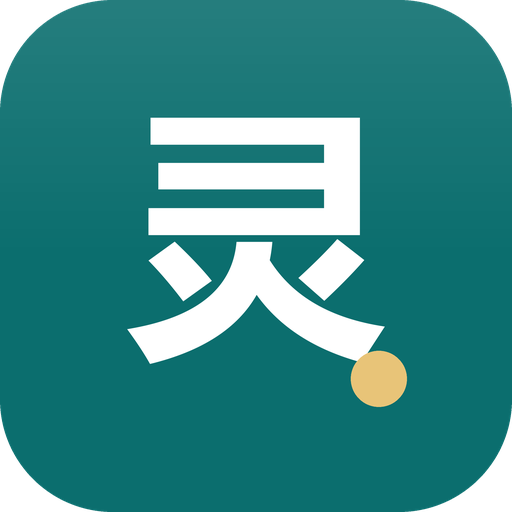
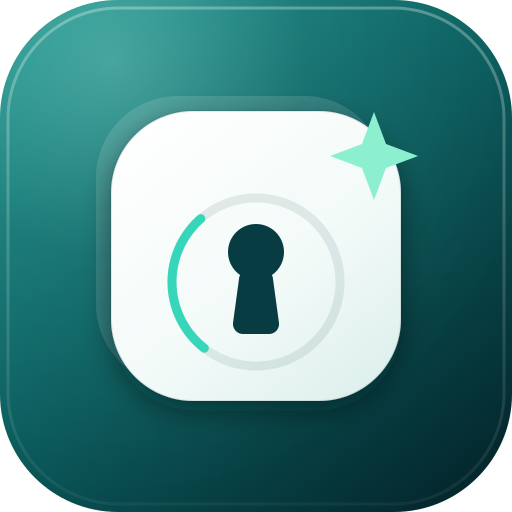
feat(brand): 重做品牌图标（保险柜门 + 锁孔 + 薄荷刻度弧 + 星芒）
- scripts/make-icons.mjs：一个 SVG 源生成 web 16/48/128/192/512、icon-512、apple-icon、favicon.ico（16/32/48）、
  桌面 build/icon.png、扩展 logo-16/48/128 与 logo-full，外加 docs/screenshots/brand-icon.png 预览
- ≤32px 自动切简化版（放大面板、加粗锁孔、去环与星芒），保证 16px 可辨认
- 预览：docs/screenshots/brand-icon.png

diff --git a/docs/PHASE_2_REPORT.md b/docs/PHASE_2_REPORT.md
@@ -8465,3 +8465,21 @@ PASS  图片 LLM OCR 读出截图文字     <- 38 字符
 - 主进程：启动 20 秒后首查 + 每 6 小时；发现新版弹一次提示；下载完成弹「立即重启 / 稍后」；托盘菜单加「检查更新…」
 - 支持 `IV_UPDATE_URL` 覆盖更新源（GitHub 在国内不稳时，指向自己的静态空间即可，只需 exe + blockmap + latest.yml 三个文件）
 - 代码签名**按决定跳过**：不买证书，首次运行仍会有 SmartScreen 提示，但更新链路不受影响
+
+---
+
+## 179. 品牌图标重做
+
+**上一版的问题**：深青圆角方块 + 白色「灵」字，等于「文字贴图」，16px 下糊成一团，也不像产品图标。
+
+**新图标**（`scripts/make-icons.mjs` 一个 SVG 源生成全部尺寸）：
+
+- 底：青绿→墨青的对角渐变（`#1A8C86 → #0B5F60 → #03252B`）+ 左上柔光 + 3px 内描边
+- 主形：白色圆角「柜门」面板，背后一层 12% 白色面板制造纵深（类似叠放的知识卡）
+- 锁孔 + 刻度环，环上 28% 一段薄荷色弧线（`#37D6BA`）—— 像仪表，暗示「检索引擎在跑」
+- 右上薄荷星芒（`#8CF0D0`），与左下的弧线形成对角平衡
+- **≤32px 用简化版**：放大白色面板、加粗锁孔、去掉环与星芒（16px 才认得出）
+
+**产出**：web 图标 16/48/128/192/512 + `icon-512.png` + `apple-icon.png` + `favicon.ico`（内含 16/32/48）、
+桌面 `build/icon.png`（electron-builder 转 ico）、扩展 `logo-16/48/128` + `logo.png` + `logo-full.png`、
+文档预览 `docs/screenshots/brand-icon.png`。

diff --git a/CHANGELOG.md b/CHANGELOG.md
@@ -139,3 +139,5 @@
   图片 OCR 在桌面版默认走视觉模型；`pnpm test:pdf` 3/3（文本层 / 扫描件 / 图片，真模型）。
 - **自动更新**：electron-updater 6.8 + `build.publish=github`，启动 20s 首查、每 6h 复查、后台下载、托盘「检查更新…」；
   `IV_UPDATE_URL` 可指向自建静态源（国内更稳）。代码签名按决定跳过。
+- **品牌图标重做**：换成「保险柜门 + 锁孔 + 薄荷刻度弧 + 星芒」的几何标，≤32px 自动用简化版保证小尺寸可辨认；
+  一个 `scripts/make-icons.mjs` 生成 web / 桌面 / 扩展 / favicon / apple-icon 全套尺寸。
